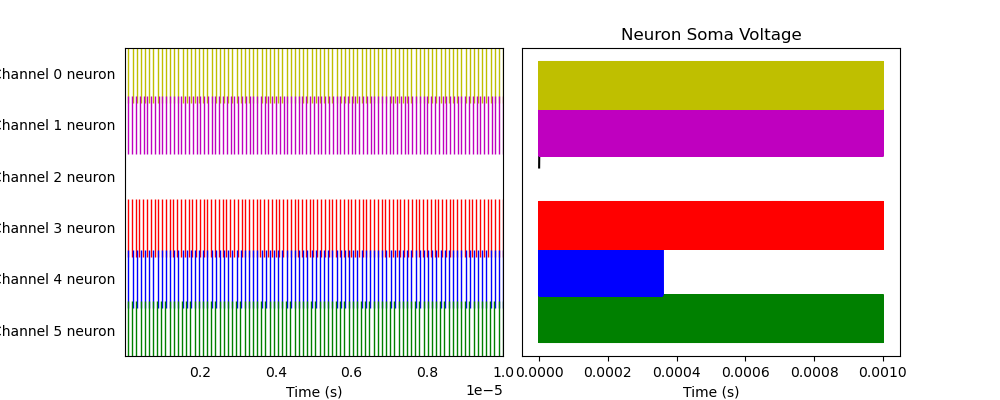
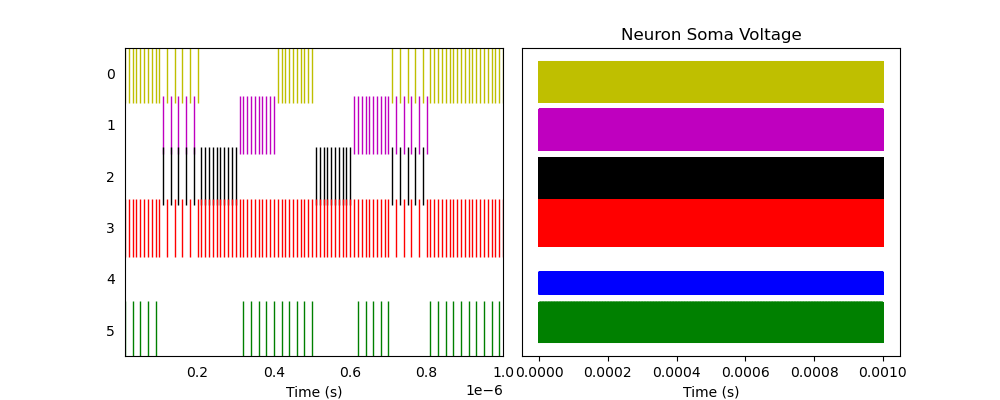
3 layer network

Changed region(s): [[0.0, 0.12, 0.899, 0.96], [0.0, 0.42, 0.124, 0.45]]

diff --git a/three-layers.py b/three-layers.py
@@ -42,7 +42,7 @@ def phase_automata(driving_symbol='0',number_of_symbols=3,id_of_starting_symbol=
     return code, ending_state
 
 
-model = nengo.Network(label='Two Layers', seed=91195)
+model = nengo.Network(label='Three Layers', seed=91195)
 
 with model:
     with model:
@@ -77,8 +77,26 @@ with model:
             # Set the neuron's firing rate to increase for 2 combinations of 3 channel input.
             encoders=[[1, -1, -1], [-1, 1, -1], [-1, -1, 1], [ -1, -1, -1], [1, 1, 1], [1, 1, -1]],
         )
+        
+        neuronsL3 = nengo.Ensemble(
+            2,  # Number of neurons
+            dimensions=3,
+            # Set intercept to 0.5
+            intercepts=Uniform(-0.00001, 0.00001),  # Set the intercepts at 0.00001 (threshold for Soma voltage)
+            neuron_type=nengo.LIF(min_voltage=0, tau_ref=0.0000000005, tau_rc=0.00000001),  # Specify type of neuron
+            # Set tau_ref= or tau_rc = here to
+            # change those
+            # parms
+            # for the
+            # neurons.
+            max_rates=Uniform(500e+6, 500e+6),  # Set the maximum firing rate of the neuron 500Mhz
+            # Set the neuron's firing rate to increase for 2 combinations of 3 channel input.
+            encoders=[[1, -1, -1], [-1, -1, 1]],
+        )
 
-threeChannels, end_channel = phase_automata(driving_symbol="1", probability_of_transition=True,timesteps=9)
+driving_symbol = "0"
+noise = True
+threeChannels, end_channel = phase_automata(driving_symbol=driving_symbol, probability_of_transition=noise,timesteps=90)
 print(threeChannels)
 tC = threeChannels.transpose((1, 0))
 print(tC)
@@ -88,16 +106,17 @@ with model:
 with model:
     nengo.Connection(input_signal, neurons, synapse=None)
     nengo.Connection(neurons, neuronsL2, synapse=None)
+    nengo.Connection(neuronsL2,neuronsL3,synapse=None)
 
 
 with model:
     input_probe = nengo.Probe(input_signal)  # The original input
-    spikesL2 = nengo.Probe(neuronsL2.neurons)  # Raw spikes from each neuron
+    spikesL3 = nengo.Probe(neuronsL3.neurons)  # Raw spikes from each neuron
     # Subthreshold soma voltages of the neurons
     #voltage = nengo.Probe(neurons.neurons, 'voltage')
-    voltageL2 = nengo.Probe(neuronsL2.neurons, 'voltage')
+    voltageL3 = nengo.Probe(neuronsL3.neurons, 'voltage')
     # Spikes filtered by a 10ms post-synaptic filter
-    filteredL2 = nengo.Probe(neuronsL2, synapse=1e-11)
+    filteredL3 = nengo.Probe(neuronsL3, synapse=1e-8)
     
 with nengo.Simulator(model, dt=1e-8) as sim:  # Create a simulator
     sim.run(1000000e-9)  # Run it for 10k nanosecond
@@ -110,35 +129,33 @@ plt.figure()
 plt.plot(t, sim.data[input_probe])
 plt.xlim(0, t[plot_range])
 plt.xlabel("Time (s)")
-plt.title("Input probe for " + str(plot_range) + " timesteps")
-plt.savefig("fig/two_layers_input_probe.png")
+plt.title("Input probe for " + str(plot_range) + " timesteps " +"Driving Symbol:"+driving_symbol+" Noise "
+                                                                                                        ""+str(noise))
+plt.savefig("fig/three_layers_input_probe"+driving_symbol+".png")
 plt.clf()
 plt.figure()
-plt.title("Neurons filtered probe for " + str(plot_range) + " timesteps")
-plt.plot(t, sim.data[filteredL2])
+plt.title("Neurons filtered probe for " + str(plot_range) + " timesteps Driving Symbol:"+driving_symbol+" Noise "
+                                                                                                        ""+str(noise))
+plt.plot(t, sim.data[filteredL3])
 plt.xlabel("Time (s)")
 plt.xlim(0, t[plot_range])
-plt.savefig("fig/two_layers_filtered.png")
+plt.savefig("fig/three_layers_filtered"+driving_symbol+".png")
 
 # Plot the spiking output of the ensemble
 plt.figure(figsize=(10, 4))
-plt.title("Neuron Spikes")
+plt.title("Neuron Spikes Driving Symbol "+driving_symbol+" Noise "+str(noise))
 plt.subplot(1, 2, 1)
 plt.xlabel("Time (s)")
-rasterplot(t[0:plot_range], sim.data[spikesL2][0:plot_range], colors=['y', 'm', 'k', 'r','b','g'])
-plt.yticks((1,2,3,4,5,6), ("0" ,"1" ,"2","3", "4","5"))
-plt.ylim(6.5, 0.5)
+rasterplot(t[0:plot_range], sim.data[spikesL3][0:plot_range], colors=['y', 'm'])
+plt.yticks((1,2), ("0" ,"1" ))
+plt.ylim(2.5, 0.5)
 
 # Plot the soma voltages of the neurons
 plt.subplot(1, 2, 2)
-plt.title("Neuron Soma Voltage")
-plt.plot(t, sim.data[voltageL2][:, 5] + 0, 'g')
-plt.plot(t, sim.data[voltageL2][:, 4] + 1, 'b')
-plt.plot(t, sim.data[voltageL2][:, 3] + 2, 'r')
-plt.plot(t, sim.data[voltageL2][:, 2]+3, 'k')
-plt.plot(t, sim.data[voltageL2][:, 1]+4, 'm')
-plt.plot(t, sim.data[voltageL2][:, 0]+5, 'y')
+plt.title("Neuron Soma Voltage Driving Symbol "+driving_symbol+" Noise "+str(noise))
+plt.plot(t, sim.data[voltageL3][:, 1]+4, 'm')
+plt.plot(t, sim.data[voltageL3][:, 0]+5, 'y')
 plt.xlabel("Time (s)")
 plt.yticks(())
 plt.subplots_adjust(wspace=0.05)
-plt.savefig("fig/two_layers.png")
+plt.savefig("fig/three_layers"+driving_symbol+".png")
